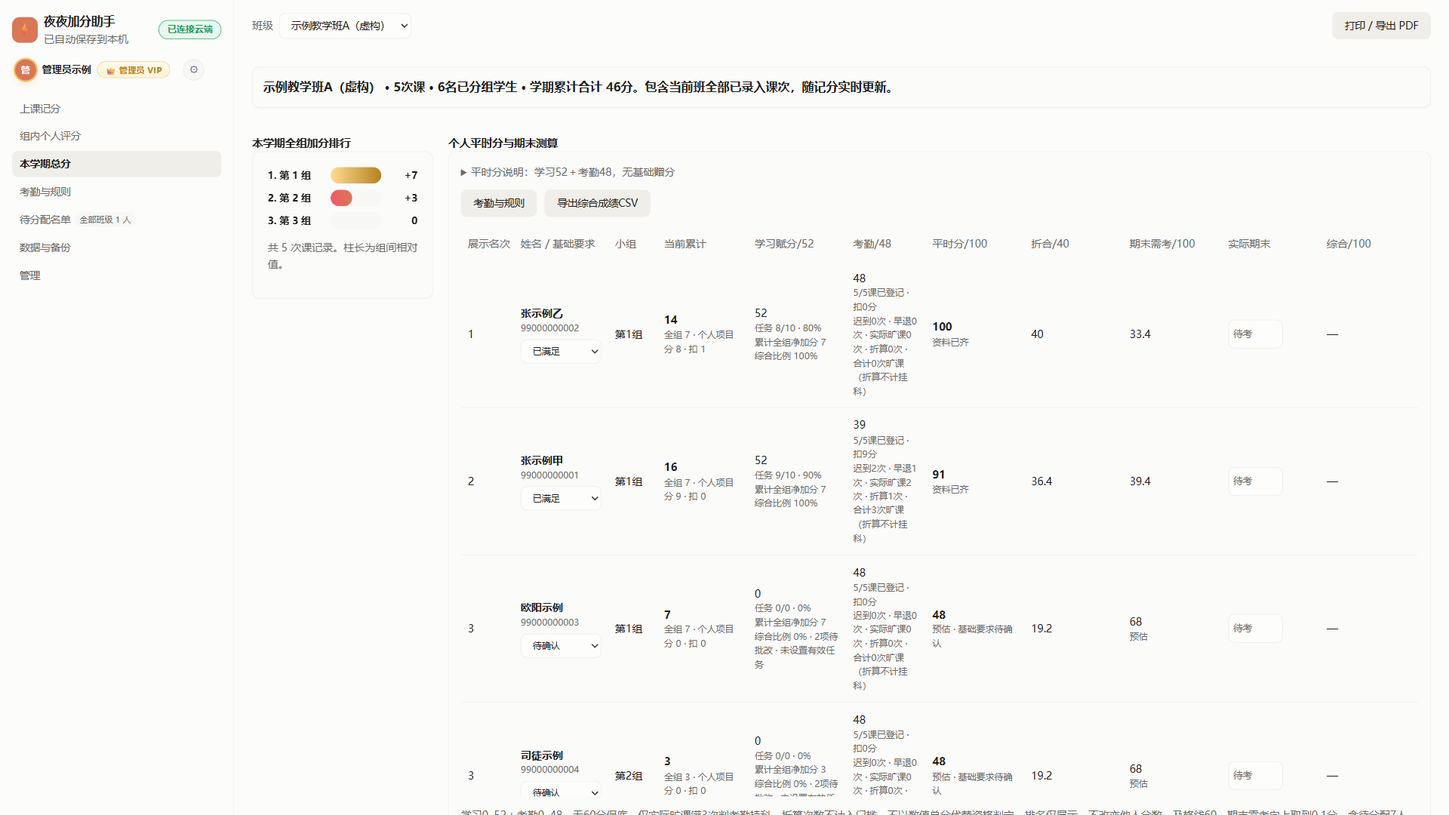
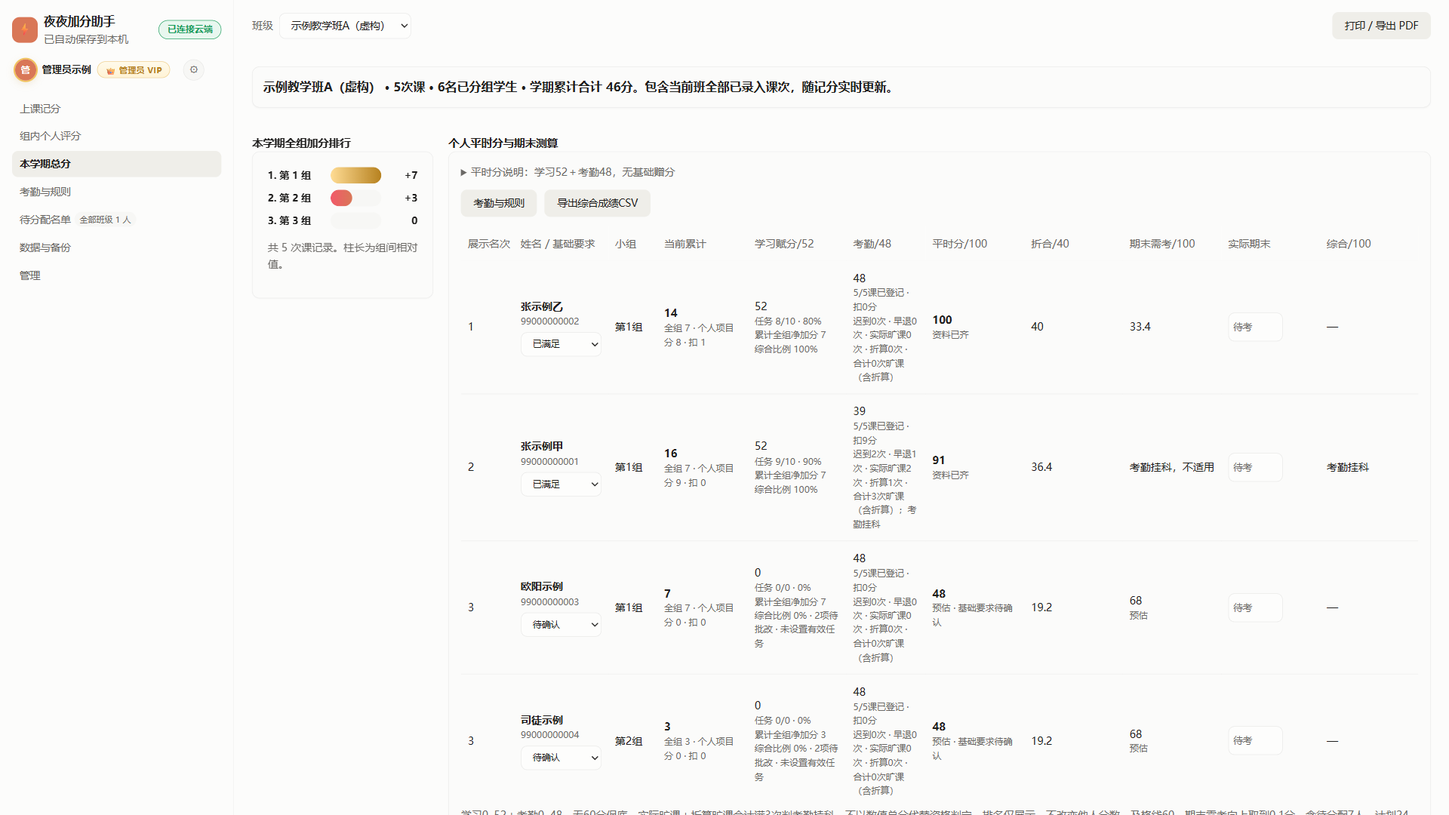
Apply confirmed combined actual and converted absence threshold

diff --git a/assessment.js b/assessment.js
@@ -56,7 +56,7 @@
       m.loss=loss;m.recorded=recorded;
       m.lateCount=late;m.earlyCount=early;m.truantCount=truant;
       m.convertedTruants=Math.floor((late+early)/3);m.effectiveTruants=truant+m.convertedTruants;
-      m.attendanceFailed=m.truantCount>=3;
+      m.attendanceFailed=m.effectiveTruants>=3;
       m.attendance=round(Math.max(0,Math.min(48,48-loss)));
       m.ready=m.confirmation==='met'&&m.task.pending===0&&m.task.maximum>0&&m.recorded===lessons.length&&lessons.length>0;
       m.regular=round(m.learning+m.attendance);m.contribution=round(m.regular*.4);
@@ -71,11 +71,11 @@
     return '<option value="">未记录</option>'+statuses.map(function(status){var loss=deduction(status,cfg);return '<option value="'+esc(status)+'"'+(status===value?' selected':'')+'>'+esc(statusName(status,cfg))+' · '+(loss?'扣'+loss+'分':'不扣')+'</option>';}).join('')+(value&&!statuses.includes(value)?'<option selected value="'+esc(value)+'">历史原因（保留）</option>':'');
   }
   function confirmationText(m) {return m.confirmation==='met'?'基础要求已满足':m.confirmation==='makeup'?'待补做':'基础要求待确认';}
-  function attendanceText(m){return '迟到'+m.lateCount+'次 · 早退'+m.earlyCount+'次 · 实际旷课'+m.truantCount+'次 · 折算'+m.convertedTruants+'次 · 合计'+m.effectiveTruants+'次旷课（折算不计挂科）'+(m.attendanceFailed?'；考勤挂科':'');}
+  function attendanceText(m){return '迟到'+m.lateCount+'次 · 早退'+m.earlyCount+'次 · 实际旷课'+m.truantCount+'次 · 折算'+m.convertedTruants+'次 · 合计'+m.effectiveTruants+'次旷课（含折算）'+(m.attendanceFailed?'；考勤挂科':'');}
   function neededText(m){return m.attendanceFailed?'考勤挂科，不适用':m.needed>100?'超过100，无法达到':String(m.needed);}
   function renderRank(ctx) {
     var cls=ctx.cls,cfg=settings(cls),ms=rows(cls,ctx.lessons,ctx.raw);
-    ctx.root.innerHTML='<details class="rank-note"><summary>平时分说明：学习52＋考勤48，无基础赠分</summary><p>48课时＝24大节，每小节40分钟，每大节80分钟。学习分＝52×clamp((已评项目实得＋全组累计净加分−个人扣分)÷项目满分,0,1)，范围0–52，没有40分基础赠分，也没有60分保底。每个命名且已评分项目满分5，跨课次自动累计；奖励全部累计，不增加项目满分、不设学期5分封顶。</p><p>考勤分＝max(0,48−累计扣分)：默认迟到/早退各扣1，旷课扣3。迟到和早退合计每3次折1次旷课，折算次数单列，不计入挂科门槛，也不再次扣分。仅实际旷课达到3次，按本课程规则判考勤挂科；平时及综合数值仅供核对，不因考试分高而解除。原记录与当时扣分保留，自定义原因不猜测为旷课。</p><p>全勤时：表现0%→平时48，80%→89.6，90%→94.8，100%→100。原始积分不限总额，百分制最高100。值日按5×参与/应到自动换算。平时40%＋期末60%，及格线按本班设置，期末目标向上取0.1。考勤挂科时停止显示可及格的期末目标。未批改、基础要求待确认或考勤未齐均显示预估；未登记考勤按全勤预估，不伪造签到。手动任务基准为'+(cfg.taskTarget||'自动按已评分项目')+'。</p></details><div class="assessment-actions"><button class="btn" id="assessmentGoAttendance">考勤与规则</button><button class="btn" id="assessmentExport">导出综合成绩CSV</button></div><div class="assessment-scroll"><table class="data assessment-table"><thead><tr><th>展示名次</th><th>姓名 / 基础要求</th><th>小组</th><th>当前累计</th><th>学习赋分/52</th><th>考勤/48</th><th>平时分/100</th><th>折合/40</th><th>期末需考/100</th><th>实际期末</th><th>综合/100</th></tr></thead><tbody>'+ms.map(function(m){return '<tr><td>'+m.rank+'</td><td><b>'+esc(m.name)+'</b><small>'+esc(m.sid||m.no||'')+'</small><select class="foundation-check" data-foundation-key="'+esc(m.key)+'" aria-label="'+esc(m.name)+' 基础要求"><option value="pending"'+(m.confirmation==='pending'?' selected':'')+'>待确认</option><option value="met"'+(m.confirmation==='met'?' selected':'')+'>已满足</option><option value="makeup"'+(m.confirmation==='makeup'?' selected':'')+'>待补做</option></select></td><td>'+(m.gno?'第'+m.gno+'组':'待分配')+'</td><td><b>'+m.total+'</b><small>全组 '+m.groupScore+' · 个人项目分 '+m.project+' · 扣 '+m.personal+'</small></td><td>'+m.learning+'<small>任务 '+m.task.earned+'/'+m.task.maximum+' · '+round(m.task.rate*100)+'%<br>累计全组净加分 '+m.bonus+'<br>综合比例 '+round(m.performanceRate*100)+'%'+(m.task.pending?' · '+m.task.pending+'项待批改':'')+(!m.task.maximum?' · 未设置有效任务':'')+'</small></td><td>'+m.attendance+'<small>'+m.recorded+'/'+ctx.lessons.length+'课已登记 · 扣'+m.loss+'分<br>'+esc(attendanceText(m))+'</small></td><td><b>'+m.regular+'</b>'+(!m.ready?'<small>预估 · '+confirmationText(m)+'</small>':'<small>资料已齐</small>')+'</td><td>'+m.contribution+'</td><td>'+neededText(m)+(!m.ready?'<small>预估</small>':'')+'</td><td><input class="assessment-exam" aria-label="'+esc(m.name)+' 实际期末成绩" data-exam-key="'+esc(m.key)+'" type="number" min="0" max="100" step="0.1" value="'+m.exam+'" placeholder="待考"></td><td>'+(m.attendanceFailed?'考勤挂科'+(m.final==null?'':'<small>数值参考 '+m.final+'</small>'):m.final==null?'—':m.final)+(!m.ready&&m.final!==null?'<small>待复核</small>':'')+'</td></tr>';}).join('')+'</tbody></table></div><p class="rank-note">学习0–52＋考勤0–48，无60分保底。仅实际旷课满3次判考勤挂科，折算次数不计入门槛，不以数值总分代替资格判定。排名仅展示，不改变他人分数。及格线'+cfg.passScore+'，期末需考向上取到0.1分。含待分配'+ms.length+'人，计划'+cfg.totalLessons+'课。</p>';
+    ctx.root.innerHTML='<details class="rank-note"><summary>平时分说明：学习52＋考勤48，无基础赠分</summary><p>48课时＝24大节，每小节40分钟，每大节80分钟。学习分＝52×clamp((已评项目实得＋全组累计净加分−个人扣分)÷项目满分,0,1)，范围0–52，没有40分基础赠分，也没有60分保底。每个命名且已评分项目满分5，跨课次自动累计；奖励全部累计，不增加项目满分、不设学期5分封顶。</p><p>考勤分＝max(0,48−累计扣分)：默认迟到/早退各扣1，旷课扣3。迟到和早退合计每3次折1次旷课，折算次数单列并计入挂科门槛，不再次扣分。实际旷课＋折算旷课达到3次，按本课程规则判考勤挂科；平时及综合数值仅供核对，不因考试分高而解除。原记录与当时扣分保留，自定义原因不猜测为旷课。</p><p>全勤时：表现0%→平时48，80%→89.6，90%→94.8，100%→100。原始积分不限总额，百分制最高100。值日按5×参与/应到自动换算。平时40%＋期末60%，及格线按本班设置，期末目标向上取0.1。考勤挂科时停止显示可及格的期末目标。未批改、基础要求待确认或考勤未齐均显示预估；未登记考勤按全勤预估，不伪造签到。手动任务基准为'+(cfg.taskTarget||'自动按已评分项目')+'。</p></details><div class="assessment-actions"><button class="btn" id="assessmentGoAttendance">考勤与规则</button><button class="btn" id="assessmentExport">导出综合成绩CSV</button></div><div class="assessment-scroll"><table class="data assessment-table"><thead><tr><th>展示名次</th><th>姓名 / 基础要求</th><th>小组</th><th>当前累计</th><th>学习赋分/52</th><th>考勤/48</th><th>平时分/100</th><th>折合/40</th><th>期末需考/100</th><th>实际期末</th><th>综合/100</th></tr></thead><tbody>'+ms.map(function(m){return '<tr><td>'+m.rank+'</td><td><b>'+esc(m.name)+'</b><small>'+esc(m.sid||m.no||'')+'</small><select class="foundation-check" data-foundation-key="'+esc(m.key)+'" aria-label="'+esc(m.name)+' 基础要求"><option value="pending"'+(m.confirmation==='pending'?' selected':'')+'>待确认</option><option value="met"'+(m.confirmation==='met'?' selected':'')+'>已满足</option><option value="makeup"'+(m.confirmation==='makeup'?' selected':'')+'>待补做</option></select></td><td>'+(m.gno?'第'+m.gno+'组':'待分配')+'</td><td><b>'+m.total+'</b><small>全组 '+m.groupScore+' · 个人项目分 '+m.project+' · 扣 '+m.personal+'</small></td><td>'+m.learning+'<small>任务 '+m.task.earned+'/'+m.task.maximum+' · '+round(m.task.rate*100)+'%<br>累计全组净加分 '+m.bonus+'<br>综合比例 '+round(m.performanceRate*100)+'%'+(m.task.pending?' · '+m.task.pending+'项待批改':'')+(!m.task.maximum?' · 未设置有效任务':'')+'</small></td><td>'+m.attendance+'<small>'+m.recorded+'/'+ctx.lessons.length+'课已登记 · 扣'+m.loss+'分<br>'+esc(attendanceText(m))+'</small></td><td><b>'+m.regular+'</b>'+(!m.ready?'<small>预估 · '+confirmationText(m)+'</small>':'<small>资料已齐</small>')+'</td><td>'+m.contribution+'</td><td>'+neededText(m)+(!m.ready?'<small>预估</small>':'')+'</td><td><input class="assessment-exam" aria-label="'+esc(m.name)+' 实际期末成绩" data-exam-key="'+esc(m.key)+'" type="number" min="0" max="100" step="0.1" value="'+m.exam+'" placeholder="待考"></td><td>'+(m.attendanceFailed?'考勤挂科'+(m.final==null?'':'<small>数值参考 '+m.final+'</small>'):m.final==null?'—':m.final)+(!m.ready&&m.final!==null?'<small>待复核</small>':'')+'</td></tr>';}).join('')+'</tbody></table></div><p class="rank-note">学习0–52＋考勤0–48，无60分保底。实际旷课＋折算旷课合计满3次判考勤挂科，不以数值总分代替资格判定。排名仅展示，不改变他人分数。及格线'+cfg.passScore+'，期末需考向上取到0.1分。含待分配'+ms.length+'人，计划'+cfg.totalLessons+'课。</p>';
     ctx.root.querySelector('#assessmentGoAttendance').onclick=ctx.openAttendance;
     ctx.root.querySelectorAll('[data-foundation-key]').forEach(function(input){input.onchange=function(){if(!cls.foundationChecks)cls.foundationChecks={};cls.foundationChecks[input.dataset.foundationKey]=input.value;var m=ms.find(function(m){return m.key===input.dataset.foundationKey;});ctx.log('基础要求确认',cls.name+' · '+m.name+' → '+input.options[input.selectedIndex].textContent);ctx.save();renderRank(ctx);};});
     ctx.root.querySelectorAll('[data-exam-key]').forEach(function(input){input.onchange=function(){var v=input.value===''?null:Number(input.value);if(v!==null&&(!Number.isFinite(v)||v<0||v>100)){ctx.message('期末成绩须为0–100分。');return;}var old=cls.examScores&&cls.examScores[input.dataset.examKey];if(!cls.examScores)cls.examScores={};if(v===null)delete cls.examScores[input.dataset.examKey];else cls.examScores[input.dataset.examKey]=v;ctx.log('期末成绩',cls.name+' · '+ms.find(function(m){return m.key===input.dataset.examKey;}).name+'：'+(old==null?'未填':old)+' → '+(v===null?'未填':v));ctx.save();renderRank(ctx);};});
@@ -83,7 +83,7 @@
   }
   function renderAttendance(ctx) {
     var cls=ctx.cls,cfg=settings(cls),students=roster(cls,ctx.raw),lesson=ctx.lesson;
-    ctx.root.innerHTML='<h2 class="sec-title">考勤与扣分设置</h2><div class="card lesson-bar"><label class="field">班级<select id="attendanceClassSel">'+ctx.classes.map(function(c){return '<option value="'+esc(c.id)+'"'+(c.id===cls.id?' selected':'')+'>'+esc(c.name)+'</option>';}).join('')+'</select></label><label class="field">课次<select id="attendanceLessonSel"'+(!ctx.lessons.length?' disabled':'')+'>'+(!ctx.lessons.length?'<option>暂无课次</option>':ctx.lessons.map(function(l){return '<option value="'+esc(l.id)+'"'+(lesson&&l.id===lesson.id?' selected':'')+'>第'+l.seq+'次 · '+esc(l.date)+'</option>';}).join(''))+'</select></label></div><details class="card assessment-settings"><summary>本班赋分与考勤规则</summary><form id="assessmentSettingsForm"><div class="assessment-settings-grid">'+[['totalLessons','计划大节课数（每节80分钟）',1,1000],['late','迟到扣分（48分中）',0,100],['truant','旷课扣分（48分中）',0,100],['leave','请假扣分（48分中）',0,100],['early','早退扣分（48分中）',0,100],['passScore','综合及格线',0,100],['taskTarget','手动任务满分（0为自动）',0,100000]].map(function(f){return '<label class="field col">'+f[1]+'<input name="'+f[0]+'" type="number" step="1" min="'+f[2]+'" max="'+f[3]+'" value="'+cfg[f[0]]+'" required></label>';}).join('')+'</div><p class="note">考勤满分固定48，学习满分52。默认24大节＝48课时；每次按设置直接扣考勤分，不再除以24折算。迟到+早退每3次折旷课1次，仅实际旷课满3次考勤挂科，折算不计入挂科门槛，折算不重复扣分。旧考勤保留当时扣分，规则修改仅用于之后登记；如需调整旧记录，请在对应课次重新保存。学习52×综合比例，无基础赠分，正常考勤48，平时40%+期末60%。手动满分为0时按命名且已评分项目计算，空白待批改不会当0。</p><button type="submit" class="btn primary">保存本班规则</button></form><h4>自定义原因</h4><div id="attendanceCustomRules">'+(cfg.customRules||[]).map(function(r){return '<span class="attendance-rule">'+esc(r.name)+' · 扣'+r.loss+'分 <button class="btn tiny" data-remove-rule="'+esc(r.id)+'" title="停用规则，历史记录保留">停用</button></span>';}).join('')+'</div><form id="attendanceCustomForm" class="btnrow"><input id="attendanceCustomName" aria-label="自定义考勤原因" maxlength="40" placeholder="例如：未到原因" required><input id="attendanceCustomLoss" aria-label="自定义扣分" type="number" min="0" max="100" step="1" value="1" required><button class="btn" type="submit">添加原因</button></form></details><p class="note">按课次保存，包含未分组人员。未登记不伪造出勤记录；修改此表只影响考勤模块，不重复扣课堂积分。</p>'+(lesson?'<div class="card"><div class="assessment-actions"><input id="attendanceSearch" aria-label="搜索考勤学生" placeholder="姓名 / 学号"><label><input id="attendanceSelectAll" type="checkbox">全选可见</label><select id="attendanceBatchStatus" aria-label="批量考勤状态">'+options(cfg,'')+'</select><button id="attendanceApplyBatch" class="btn">应用到所选</button><button id="attendanceSave" class="btn primary">保存本课考勤</button></div><p id="attendanceDirty" class="note" role="status">没有未保存的改动。</p><div class="assessment-scroll"><table class="data attendance-table"><thead><tr><th>选择</th><th>姓名</th><th>学号</th><th>小组</th><th>本课状态</th><th>已保存扣分</th></tr></thead><tbody>'+students.map(function(m){var a=lesson.attendance&&lesson.attendance[m.key];return '<tr data-att-row><td><input type="checkbox" data-att-check="'+esc(m.key)+'" aria-label="选择'+esc(m.name)+'"></td><td>'+esc(m.name)+'</td><td>'+esc(m.sid||m.no||'')+'</td><td>'+(m.gno?'第'+m.gno+'组':'待分配')+'</td><td><select data-att-key="'+esc(m.key)+'" aria-label="'+esc(m.name)+' 考勤">'+options(cfg,a&&a.status)+'</select>'+(a&&!labels[a.status]&&!(cfg.customRules||[]).some(function(r){return r.id===a.status;})?'<small>历史原因：'+esc(a.label)+'（保留）</small>':'')+'</td><td>'+(a?a.loss:'—')+'</td></tr>';}).join('')+'</tbody></table></div></div>':'<p class="card">请先在上课记分中新开一课，再登记考勤。</p>');
+    ctx.root.innerHTML='<h2 class="sec-title">考勤与扣分设置</h2><div class="card lesson-bar"><label class="field">班级<select id="attendanceClassSel">'+ctx.classes.map(function(c){return '<option value="'+esc(c.id)+'"'+(c.id===cls.id?' selected':'')+'>'+esc(c.name)+'</option>';}).join('')+'</select></label><label class="field">课次<select id="attendanceLessonSel"'+(!ctx.lessons.length?' disabled':'')+'>'+(!ctx.lessons.length?'<option>暂无课次</option>':ctx.lessons.map(function(l){return '<option value="'+esc(l.id)+'"'+(lesson&&l.id===lesson.id?' selected':'')+'>第'+l.seq+'次 · '+esc(l.date)+'</option>';}).join(''))+'</select></label></div><details class="card assessment-settings"><summary>本班赋分与考勤规则</summary><form id="assessmentSettingsForm"><div class="assessment-settings-grid">'+[['totalLessons','计划大节课数（每节80分钟）',1,1000],['late','迟到扣分（48分中）',0,100],['truant','旷课扣分（48分中）',0,100],['leave','请假扣分（48分中）',0,100],['early','早退扣分（48分中）',0,100],['passScore','综合及格线',0,100],['taskTarget','手动任务满分（0为自动）',0,100000]].map(function(f){return '<label class="field col">'+f[1]+'<input name="'+f[0]+'" type="number" step="1" min="'+f[2]+'" max="'+f[3]+'" value="'+cfg[f[0]]+'" required></label>';}).join('')+'</div><p class="note">考勤满分固定48，学习满分52。默认24大节＝48课时；每次按设置直接扣考勤分，不再除以24折算。迟到+早退每3次折旷课1次，实际旷课＋折算旷课合计满3次考勤挂科，折算不重复扣分。旧考勤保留当时扣分，规则修改仅用于之后登记；如需调整旧记录，请在对应课次重新保存。学习52×综合比例，无基础赠分，正常考勤48，平时40%+期末60%。手动满分为0时按命名且已评分项目计算，空白待批改不会当0。</p><button type="submit" class="btn primary">保存本班规则</button></form><h4>自定义原因</h4><div id="attendanceCustomRules">'+(cfg.customRules||[]).map(function(r){return '<span class="attendance-rule">'+esc(r.name)+' · 扣'+r.loss+'分 <button class="btn tiny" data-remove-rule="'+esc(r.id)+'" title="停用规则，历史记录保留">停用</button></span>';}).join('')+'</div><form id="attendanceCustomForm" class="btnrow"><input id="attendanceCustomName" aria-label="自定义考勤原因" maxlength="40" placeholder="例如：未到原因" required><input id="attendanceCustomLoss" aria-label="自定义扣分" type="number" min="0" max="100" step="1" value="1" required><button class="btn" type="submit">添加原因</button></form></details><p class="note">按课次保存，包含未分组人员。未登记不伪造出勤记录；修改此表只影响考勤模块，不重复扣课堂积分。</p>'+(lesson?'<div class="card"><div class="assessment-actions"><input id="attendanceSearch" aria-label="搜索考勤学生" placeholder="姓名 / 学号"><label><input id="attendanceSelectAll" type="checkbox">全选可见</label><select id="attendanceBatchStatus" aria-label="批量考勤状态">'+options(cfg,'')+'</select><button id="attendanceApplyBatch" class="btn">应用到所选</button><button id="attendanceSave" class="btn primary">保存本课考勤</button></div><p id="attendanceDirty" class="note" role="status">没有未保存的改动。</p><div class="assessment-scroll"><table class="data attendance-table"><thead><tr><th>选择</th><th>姓名</th><th>学号</th><th>小组</th><th>本课状态</th><th>已保存扣分</th></tr></thead><tbody>'+students.map(function(m){var a=lesson.attendance&&lesson.attendance[m.key];return '<tr data-att-row><td><input type="checkbox" data-att-check="'+esc(m.key)+'" aria-label="选择'+esc(m.name)+'"></td><td>'+esc(m.name)+'</td><td>'+esc(m.sid||m.no||'')+'</td><td>'+(m.gno?'第'+m.gno+'组':'待分配')+'</td><td><select data-att-key="'+esc(m.key)+'" aria-label="'+esc(m.name)+' 考勤">'+options(cfg,a&&a.status)+'</select>'+(a&&!labels[a.status]&&!(cfg.customRules||[]).some(function(r){return r.id===a.status;})?'<small>历史原因：'+esc(a.label)+'（保留）</small>':'')+'</td><td>'+(a?a.loss:'—')+'</td></tr>';}).join('')+'</tbody></table></div></div>':'<p class="card">请先在上课记分中新开一课，再登记考勤。</p>');
     var dirty=false,changed=new Set();
     function mark(){dirty=true;var el=ctx.root.querySelector('#attendanceDirty');if(el)el.textContent='有未保存的考勤改动，请点击保存本课考勤。';}
     function guard(){if(dirty){ctx.message('请先保存本课考勤，再切换班级或课次。');return false;}return true;}
@@ -102,7 +102,7 @@
   }
   function printHtml(cls,lessons,raw) {
     var ms=rows(cls,lessons,raw);
-    return '<h2>平时赋分与期末测算</h2><p>学习0–52＋考勤0–48，无基础赠分；迟到/早退合计3次折旷课1次，仅实际旷课3次考勤挂科，折算不计入门槛，折算不重复扣分；平时40%＋期末60%。名次只展示，未确认/未批改/考勤未齐为预估。</p><table><thead><tr><th>名次</th><th>姓名</th><th>学号</th><th>当前累计</th><th>学习/52</th><th>考勤/48</th><th>平时/100</th><th>折合/40</th><th>期末需考</th><th>实际期末</th><th>综合</th><th>基础要求/状态</th></tr></thead><tbody>'+ms.map(function(m){return '<tr><td>'+m.rank+'</td><td>'+esc(m.name)+'</td><td>'+esc(m.sid||m.no||'')+'</td><td>'+m.total+'</td><td>'+m.learning+'</td><td>'+m.attendance+'</td><td>'+m.regular+'</td><td>'+m.contribution+'</td><td>'+(neededText(m))+'</td><td>'+m.exam+'</td><td>'+(m.attendanceFailed?'考勤挂科'+(m.final==null?'':'<small>数值参考 '+m.final+'</small>'):m.final==null?'—':m.final)+'</td><td>'+esc(confirmationText(m))+(m.ready?' · 已齐':' · 预估')+'<br>'+esc(attendanceText(m))+'</td></tr>';}).join('')+'</tbody></table>';
+    return '<h2>平时赋分与期末测算</h2><p>学习0–52＋考勤0–48，无基础赠分；迟到/早退合计3次折旷课1次，实际旷课＋折算旷课合计3次考勤挂科，折算不重复扣分；平时40%＋期末60%。名次只展示，未确认/未批改/考勤未齐为预估。</p><table><thead><tr><th>名次</th><th>姓名</th><th>学号</th><th>当前累计</th><th>学习/52</th><th>考勤/48</th><th>平时/100</th><th>折合/40</th><th>期末需考</th><th>实际期末</th><th>综合</th><th>基础要求/状态</th></tr></thead><tbody>'+ms.map(function(m){return '<tr><td>'+m.rank+'</td><td>'+esc(m.name)+'</td><td>'+esc(m.sid||m.no||'')+'</td><td>'+m.total+'</td><td>'+m.learning+'</td><td>'+m.attendance+'</td><td>'+m.regular+'</td><td>'+m.contribution+'</td><td>'+(neededText(m))+'</td><td>'+m.exam+'</td><td>'+(m.attendanceFailed?'考勤挂科'+(m.final==null?'':'<small>数值参考 '+m.final+'</small>'):m.final==null?'—':m.final)+'</td><td>'+esc(confirmationText(m))+(m.ready?' · 已齐':' · 预估')+'<br>'+esc(attendanceText(m))+'</td></tr>';}).join('')+'</tbody></table>';
   }
   root.JFDT_ASSESSMENT={printHtml:printHtml,taskEvidence:taskEvidence,key:key,settings:settings,roster:roster,rows:rows,deduction:deduction,renderRank:renderRank,renderAttendance:renderAttendance};
 })(typeof window==='undefined'?globalThis:window);

diff --git a/docs/使用指南.md b/docs/使用指南.md
@@ -226,8 +226,8 @@
 - 每个命名且已评分的个人项目列满分5，跨课次自动累计；明确0计入满分，空白待批改不作0。手动任务满分保持0即自动。
 - 项目达成率＝项目实得÷项目满分；综合比例＝clamp((项目实得＋全组累计净加分−个人扣分)÷项目满分,0,1)。奖励全部累计，没有学期5分封顶，奖励不增加项目满分，扣分不重复计算。
 - **学习分＝52×综合比例，0～52；考勤分＝max(0,48−累计考勤扣分)，0～48；平时分＝两者相加，0～100。** 全勤但学习0为48；全勤且表现80%为89.6、90%为94.8、100%为100。原始积分仍可超过100，不重写。
-- 默认迟到扣1、早退扣1、旷课扣3，直接从48中扣，不再按24比例折算。迟到＋早退合计每3次折1次旷课，保留不足3次的余数；仅实际旷课达到3次，**按本课程规则考勤挂科**。折算仅作记录，不计入挂科门槛，已经扣过的迟到/早退不再扣一次旷课分。
-- 例：迟到2次＋早退1次 → 扣3，考勤45，折旷课1次；实际旷课2次再加这3次迟到/早退 → 扣9，考勤39，合计记录3次旷课，但实际仅2次，不触发挂科；9次迟到折3次也不触发挂科。即使数值总分高，不能用考试分解除考勤挂科。
+- 默认迟到扣1、早退扣1、旷课扣3，直接从48中扣，不再按24比例折算。迟到＋早退合计每3次折1次旷课，保留不足3次的余数；实际旷课＋折算旷课达到3次，**按本课程规则考勤挂科**。折算计入挂科门槛，但不重复扣分，已经扣过的迟到/早退不再扣一次旷课分。
+- 例：迟到2次＋早退1次 → 扣3，考勤45，折旷课1次；实际旷课2次再加这3次迟到/早退 → 扣9，考勤39，合计3次旷课，触发挂科；9次迟到折3次也触发挂科。即使数值总分高，不能用考试分解除考勤挂科。
 - 实际记录按课次保存，历史扣分快照不重写；自定义原因仅按原记录扣分，不猜测成旷课。考勤更正后自动重算次数和判定，不覆盖原始成绩。规则调整不代表校级政策，由教师核对本课程要求。
 - 未批改、基础要求未确认、考勤未齐时仍显示预估，未登记考勤按全勤估计，不伪造签到。“基础要求确认”只用于资料状态，不赠分。
 - 平时40%＋期末60%，综合及格线默认60。未触发考勤挂科时，期末需考=max(0,(及格线−平时×0.4)/0.6)，向上取到0.1。考勤挂科显示“不适用”，综合数值只供核对，明确显示挂科状态。实际考试空白为待考，0分是有效分数。
@@ -240,4 +240,4 @@
 
 值日仍自动按5×参与人数÷应到人数计算，两位小数；应到默认小组人数，可调整。4/5=4，3/4=3.75；现行值日给该组每个人同分，不识别个人参与者。旧手填值日分保留，不反推人数。课堂分和值日撤销/重做恢复原值及人数；个人项目在原表改分。所有数据随账号云同步，CSV和打印使用同一派生模型。
 
-最新修正：只有实际旷课3次触发考勤挂科。迟到、早退合计每3次仍记1次折算旷课，但不计入挂科门槛，不重复扣分。网页、CSV与打印保留实际/折算/合计三种计数，判定仅看实际。
+最终确认：实际旷课＋迟到/早退折算旷课合计满3次挂科。迟到和早退合计每3次折算1次，计入挂科门槛，不重复扣分。网页、CSV与打印保留实际/折算/合计三种计数。

diff --git a/项目交接.md b/项目交接.md
@@ -1,3 +1,5 @@
+最终有效口径：实际旷课＋迟到/早退折算旷课合计满3次挂科（用户最新澄清，覆盖此前仅实际口径）。气泡原站已由另一窗口更新，暂不改提示词，等待用户指定网页后再核对差异。
+
 最新有效口径：挂科仅统计实际旷课满3次；迟到/早退每3次折1次旷课仅作记录，不参与挂科门槛。旧含折算挂科规则作废。
 
 当前有效规则：学习52＋考勤48，无基础赠分；迟到/早退每3次折旷课1次，含折算满3次考勤挂科。此前保底60等说明均为历史。
@@ -260,3 +262,7 @@ Pages：https://zcq19991029.github.io/ye-ye-score-helper/
 按用户纠正，attendanceFailed改为truantCount>=3；迟到与早退折算保留，合计仅展示，不重复扣分。学习52/考勤48、历史快照及原始业务数据不变。同步网页、CSV/打印、公开说明和课堂气泡交接；回归覆盖2实际+1折算不挂、9迟到不挂、3实际挂科。
 
 修正回归：公式37、前后端113、打包23项通过；隔离浏览器确认2实际+1折算仍显示数值期末目标，原始考勤无修改。
+
+## 2026-10-18 最终澄清：折算计入挂科
+
+仅修正派生门槛为effectiveTruants>=3，迟到与早退合计每3次折1次且不重复扣分。原始考勤不改；网页、导出、打印与说明同步。按用户要求暂不修改课堂气泡提示词，不主动修改气泡项目，等其当前网页核对后再决定。
